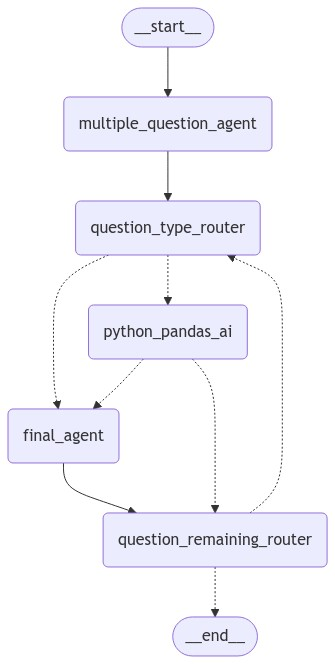
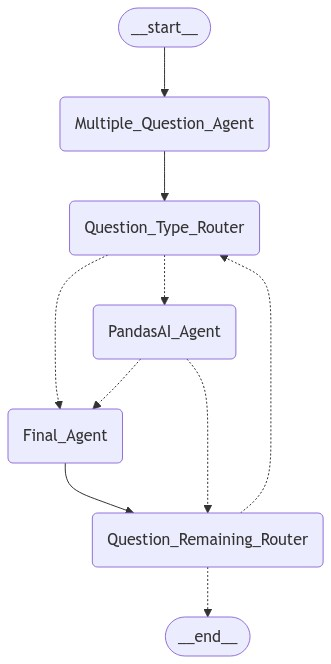
update langgraph

diff --git a/version2/version_temp/lang_graph/lang_graph.py b/version2/version_temp/lang_graph/lang_graph.py
@@ -41,38 +41,38 @@ class Graph:
         graph = StateGraph(AgentState)
 
         # LangGraph Nodes
-        graph.add_node("multiple_question_agent", multiple_question_agent) # Breakdown if question is about multiple questions
-        graph.add_node('question_type_router', router_agent) # Determining if question is related to dataset
-        graph.add_node("python_pandas_ai", python_pandas_ai) # Answering specific dataset related questions
-        graph.add_node('final_agent', final_agent) 
-        graph.add_node("question_remaining_router", multiple_question_parser)
+        graph.add_node("Multiple_Question_Agent", multiple_question_agent) # Breakdown if question is about multiple questions
+        graph.add_node('Question_Type_Router', router_agent) # Determining if question is related to dataset
+        graph.add_node("PandasAI_Agent", python_pandas_ai) # Answering specific dataset related questions
+        graph.add_node('Final_Agent', final_agent) 
+        graph.add_node("Question_Remaining_Router", multiple_question_parser)
 
         # LangGraph Edges
-        graph.add_edge(START, 'multiple_question_agent') # Initialising LangGraph
-        graph.add_edge("multiple_question_agent", 'question_type_router')
+        graph.add_edge(START, 'Multiple_Question_Agent') # Initialising LangGraph
+        graph.add_edge("Multiple_Question_Agent", 'Question_Type_Router')
         graph.add_conditional_edges( 
-            'question_type_router',
+            'Question_Type_Router',
             router_agent_decision,
             {
-                "python_pandas_ai":"python_pandas_ai",
-                "final_agent":"final_agent"
+                "PandasAI_Agent":"PandasAI_Agent",
+                "Final_Agent":"Final_Agent"
             }
         )
         graph.add_conditional_edges(
-            "python_pandas_ai",
+            "PandasAI_Agent",
             router_python_output,
             {
-                "final_agent":"final_agent",
-                "question_remaining_router":"question_remaining_router"
+                "Final_Agent":"Final_Agent",
+                "Question_Remaining_Router":"Question_Remaining_Router"
             }
         )      
-        graph.add_edge("final_agent", "question_remaining_router")
+        graph.add_edge("Final_Agent", "Question_Remaining_Router")
         
         graph.add_conditional_edges(
-            "question_remaining_router",
+            "Question_Remaining_Router",
             router_multiple_question,
             {
-                'question_type_router':'question_type_router',
+                'Question_Type_Router':'Question_Type_Router',
                 "__end__":"__end__"
             }
         )

diff --git a/version2/version_temp/lang_graph/lang_graph_utils.py b/version2/version_temp/lang_graph/lang_graph_utils.py
@@ -95,10 +95,10 @@ def router_agent_decision(state: list):
 
     out = state['agent_out']
     if 'yes' in out.lower():
-        return 'python_pandas_ai' 
+        return 'PandasAI_Agent' 
         
     else:
-        return 'final_agent'
+        return 'Final_Agent'
 
     
 def python_pandas_ai(state:list):
@@ -124,9 +124,9 @@ def router_python_output(state:list):
     
     router_out = state["agent_out"]
     if "Unfortunately, I was not able to answer your question, because of the following error:" in str(router_out):
-        return "final_agent"
+        return "Final_Agent"
     else:
-        return "question_remaining_router"
+        return "Question_Remaining_Router"
     
     
 def final_agent(state:list):
@@ -235,7 +235,7 @@ def router_multiple_question(state:list):
     
     print(graph_stage_prefix, "Multiple Question Router")
     if state["input"]:
-        return "question_type_router"
+        return "Question_Type_Router"
     else:
         return "__end__"
     
